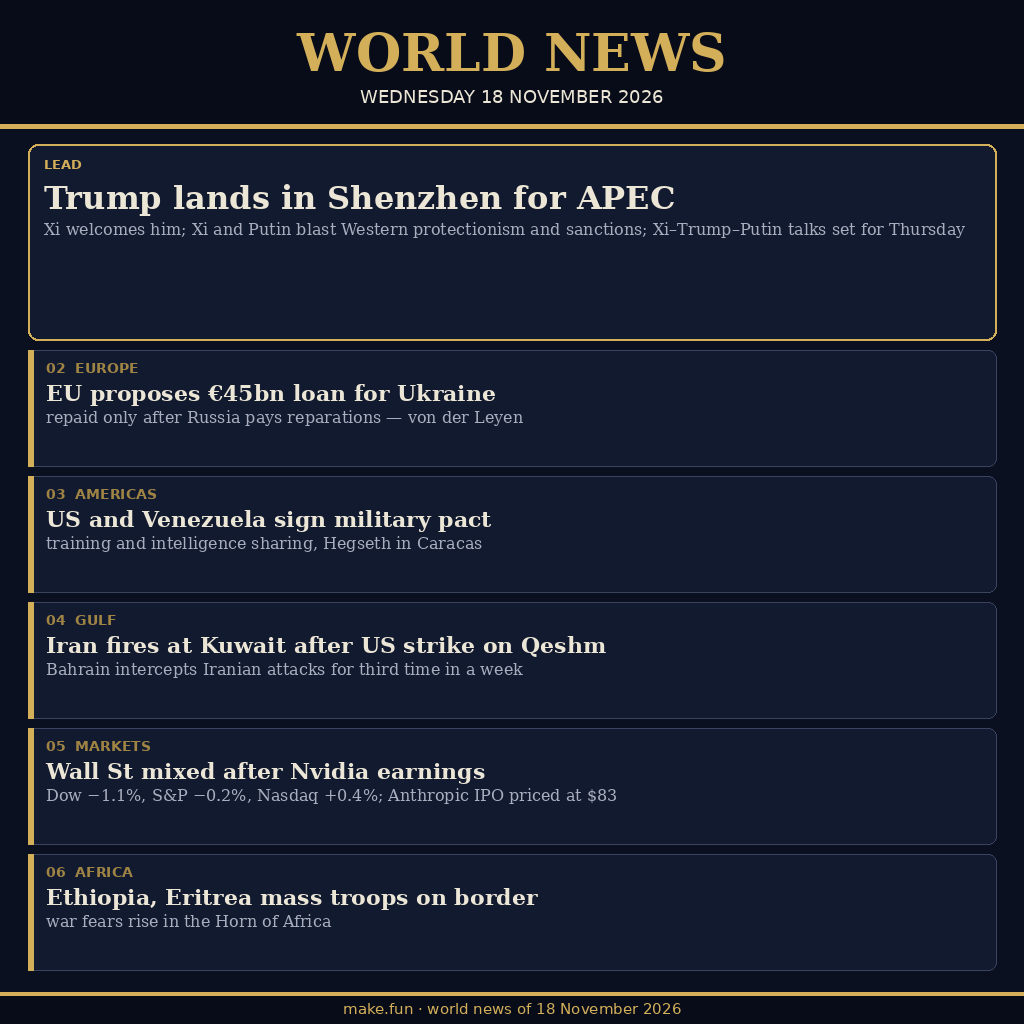
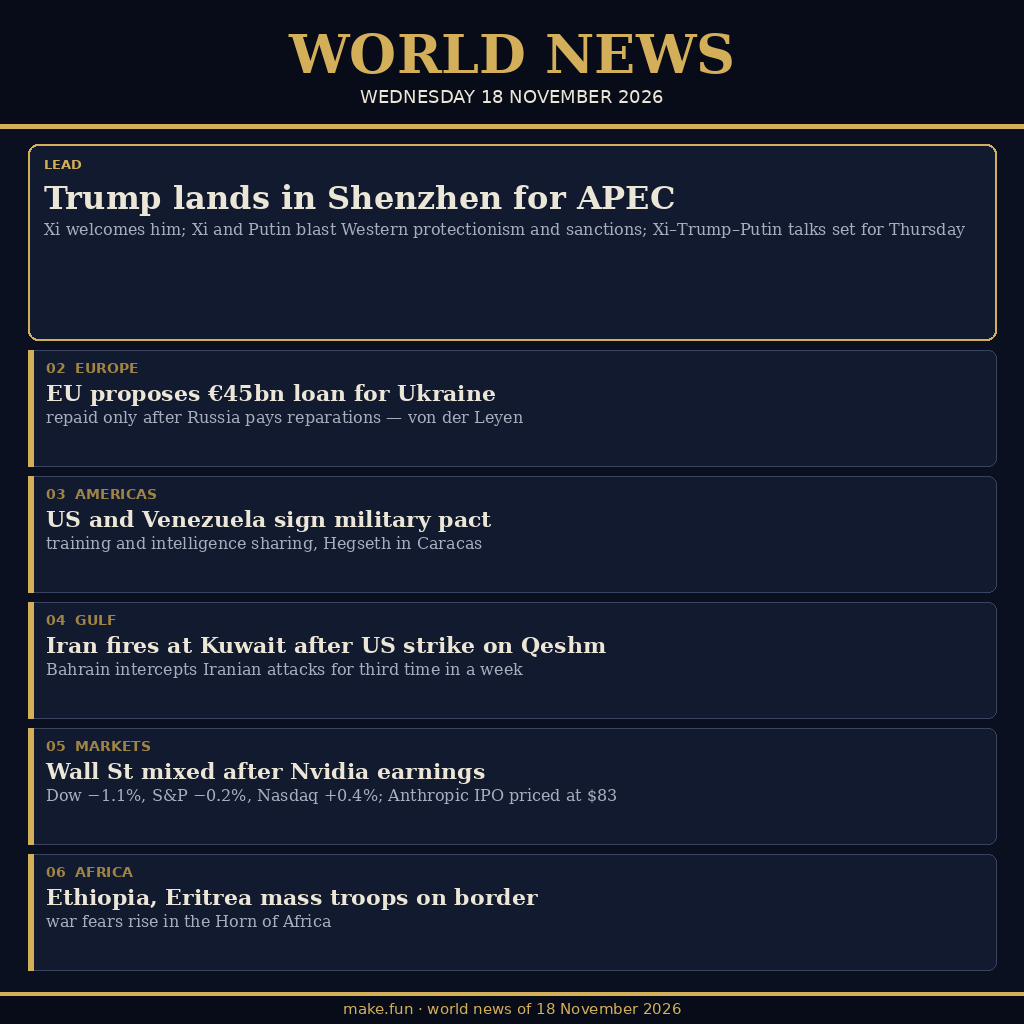
Revise LICENSE SPDX, main.py comment, regenerate image

Changed region(s): [[0.2812, 0.0312, 0.5, 0.0938], [0.5312, 0.0312, 0.7188, 0.0938]]

diff --git a/generate_image.py b/generate_image.py
@@ -51,7 +51,7 @@ def main():
     img = Image.new("RGB", (W, H), NAVY)
     d = ImageDraw.Draw(img)
 
-    f_mast = font(SERIF_B, 52)
+    f_mast = font(SERIF_B, 54)
     f_date = font(SANS, 18)
     f_kicker = font(SANS_B, 13)
     f_head_l = font(SERIF_B, 32)

diff --git a/main.py b/main.py
@@ -1,4 +1,5 @@
 #!/usr/bin/env python3
+# Copies entry.png beside this script to /output/entry.png for the make.fun grader.
 import os
 import shutil
 
